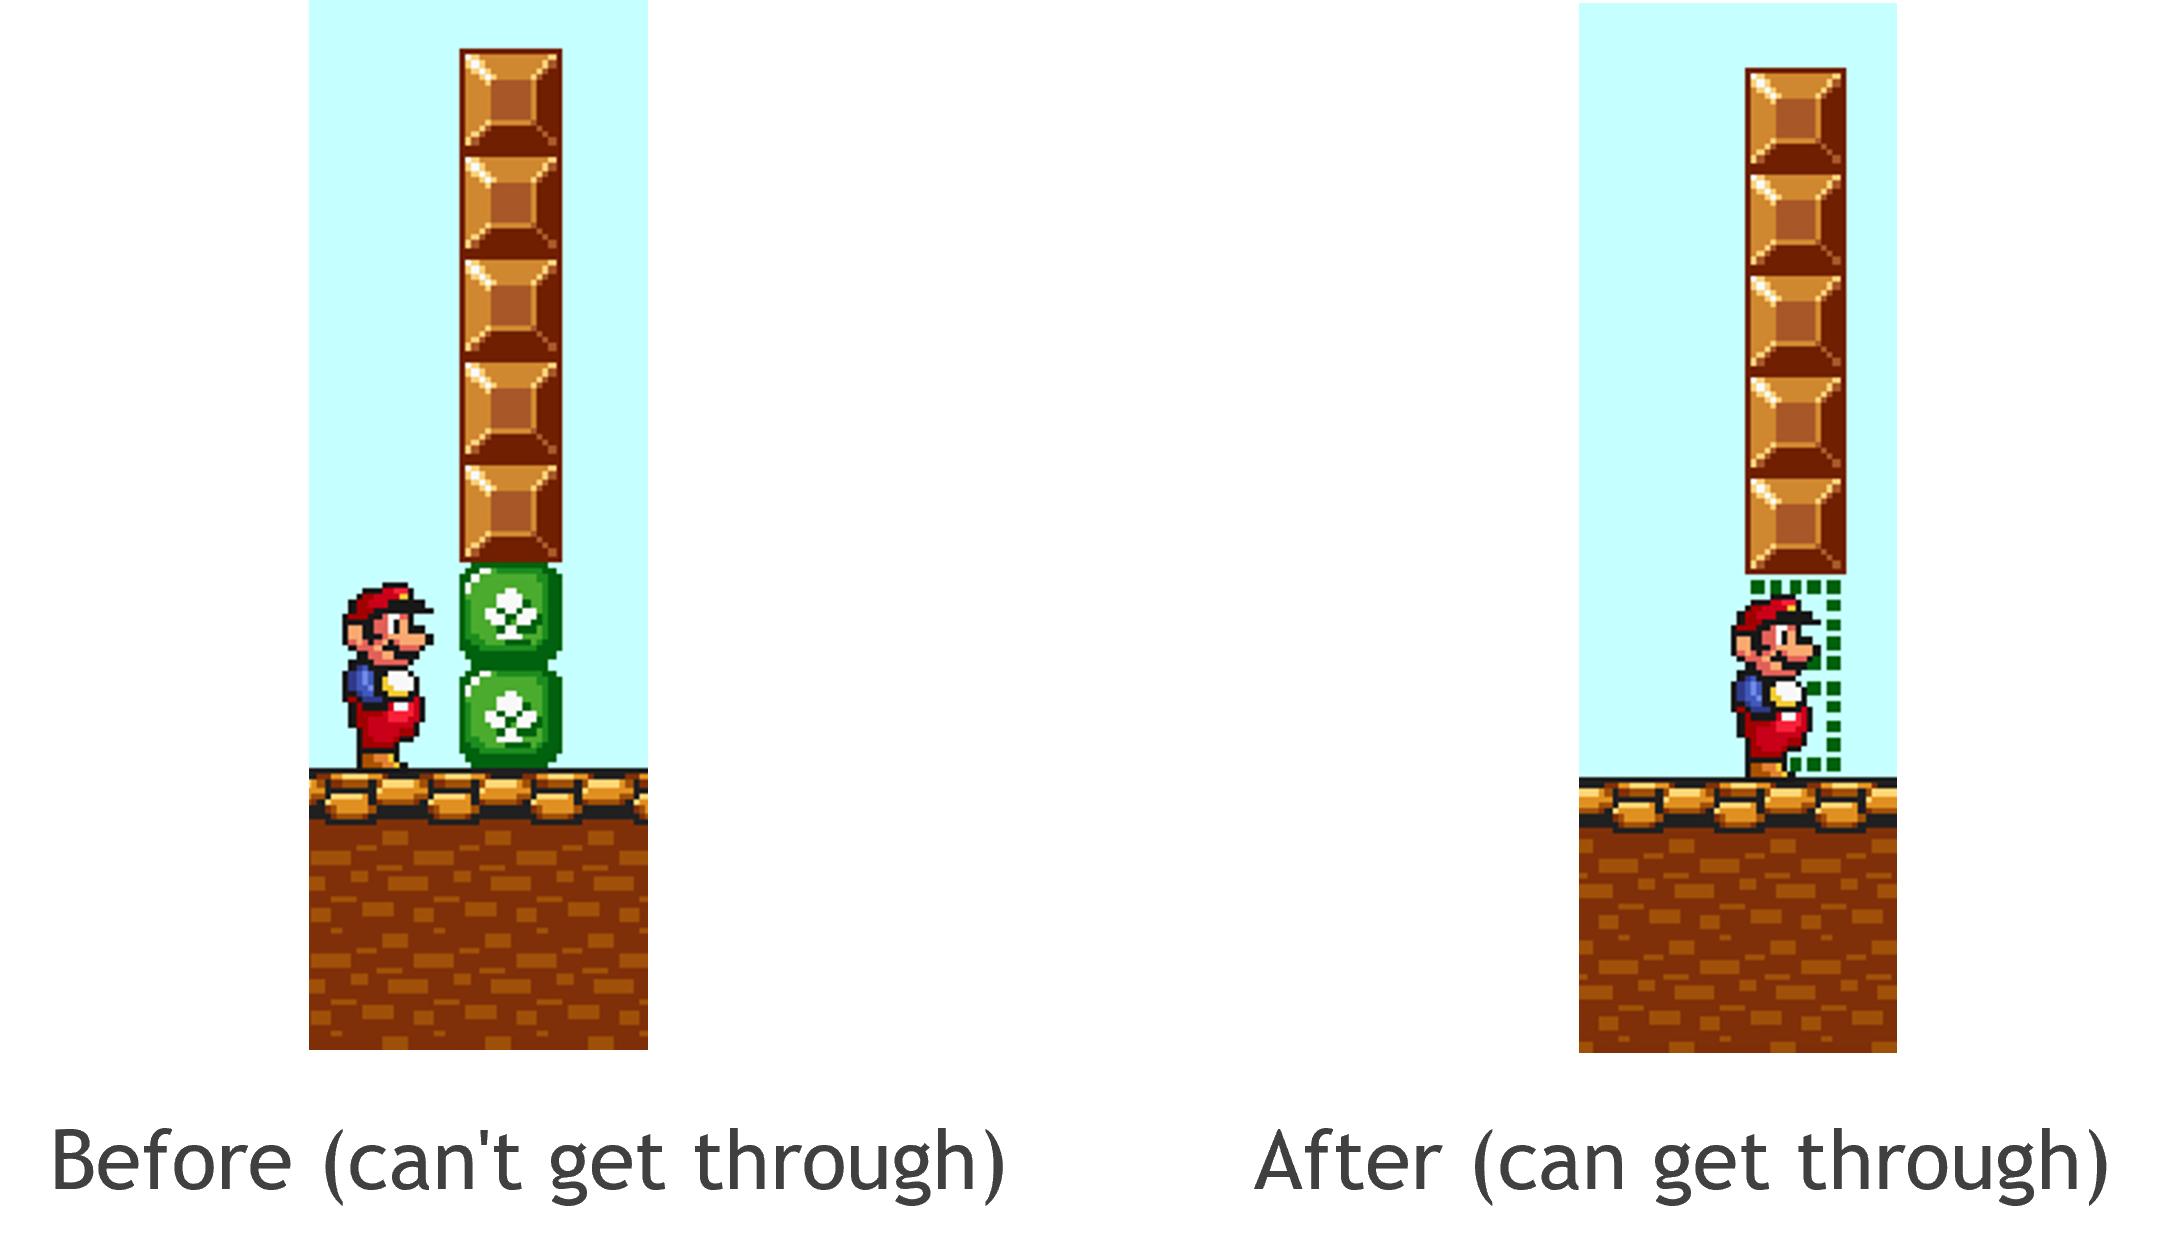
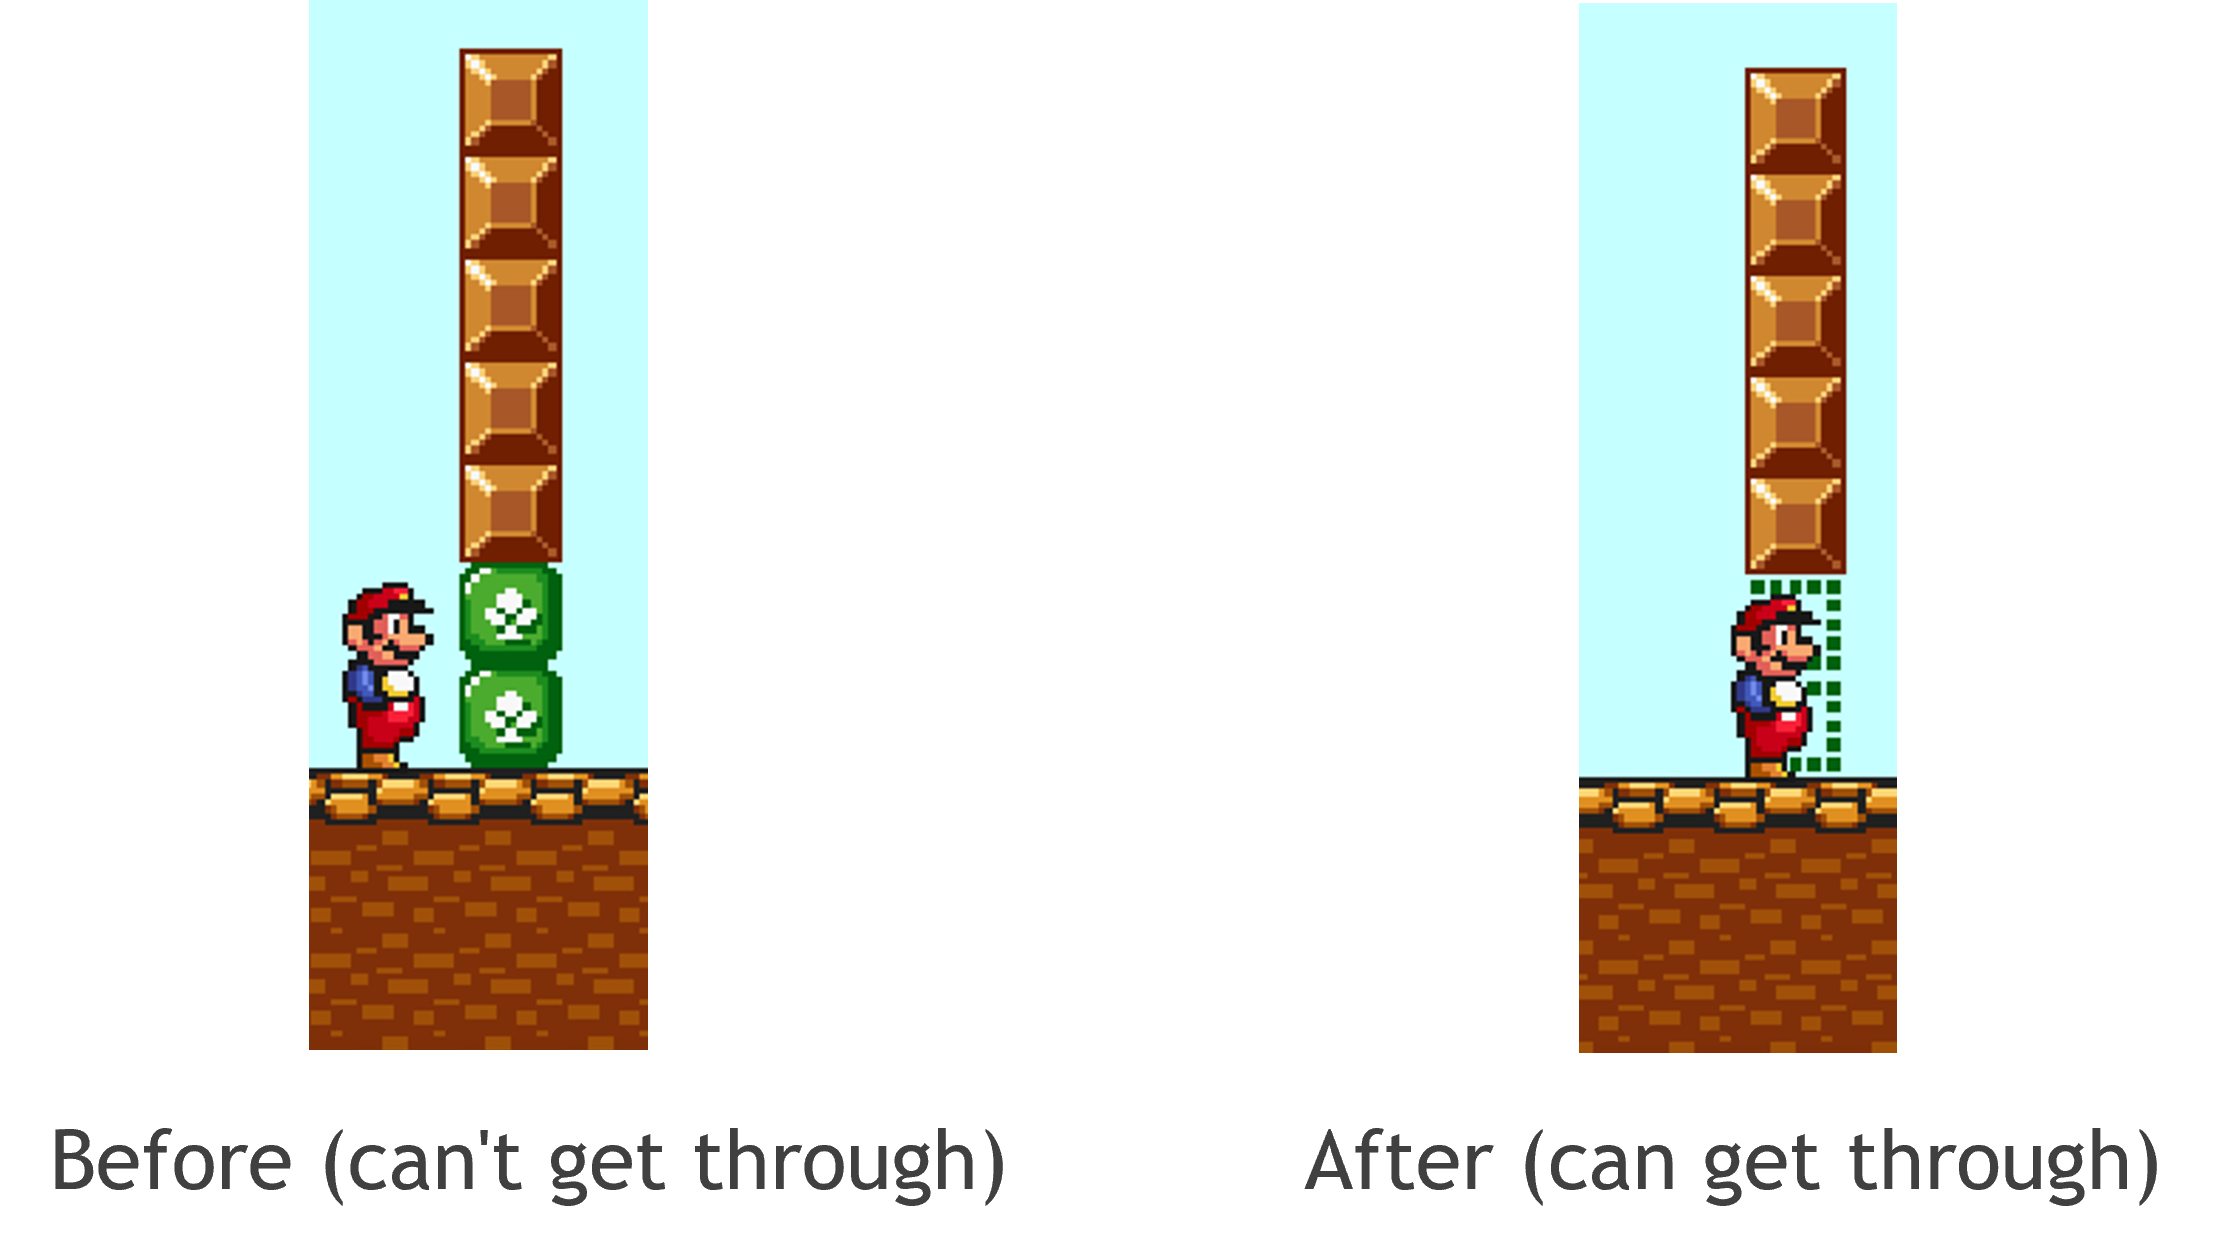
3sat

diff --git a/index.md b/index.md
@@ -6,7 +6,7 @@ toc: true
 toc_sticky: true
 ---
 
-# Super Mario Bros.
+# Super Mario Bros. Introduction
 
 Super Mario Bros. is a classic platform game developed by Nintendo in 1985. 
 The game follows **Mario**, an Italian plumber, on his quest to rescue 
@@ -23,24 +23,22 @@ ultimately proving that determining whether a given level is passable is an
 <img src="assets/images/mario/mario-meme.png" alt="Mario Meme" class="centered-img" style="max-width: 40%; height: auto;">
 
 
-## Key Elements of the Game
+# Key Elements of the Game
 
 First, we will introduce several key elements of the game that we will use
 in our proofs. 
 
-### Mario's Forms
+## Mario's Forms
 
 Mario has different forms that impact his abilities:
 
 - **Normal Mario**: The default form with basic movement and jumping.
-- **Super Mario**: Gained by collecting a **Super Mushroom**, allowing Mario to break bricks.
-- **Invincible Mario**: Temporarily obtained by collecting a **Super Star**, making Mario immune to enemies and hazards.
+- **Super Mario**: Gained by collecting a **Super Mushroom** <img src="assets/images/mario/mushroom.png" alt="Super Mushroom" width="20">, allowing Mario to break bricks.
+- **Invincible Mario**: Temporarily obtained by collecting a **Super Star** <img src="assets/images/mario/star.png" alt="Super Star" width="20">, making Mario immune to enemies and hazards.
 
-<p align="center">
-    <img src="assets/images/mario/mario-forms.png" alt="Mario Forms" class="centered-img" style="max-width: 100%; height: auto;">
-</p>
+<img src="assets/images/mario/mario-forms.png" alt="Mario Forms" class="centered-img" style="max-width: 100%; height: auto;">
 
-### Basic Environment Elements
+## Basic Environment Elements
 
 Several types of blocks and structures shape the levels in *Super Mario Bros.*:
 
@@ -51,4 +49,27 @@ Several types of blocks and structures shape the levels in *Super Mario Bros.*:
 
 To simplify our problem, we also allow the use of **palace switches** <img src="assets/images/mario/palace-switch.png" alt="Normal Block" width="20">: 
 
-<img src="assets/images/mario/palace-switch-mechanics.png" alt="Palace switch mechanics" class="centered-img" style="max-width: 40%; height: auto;">
+- When Mario activates a **Palace Switch**, it transforms solid blocks of a matching color into transparent blocks.
+- This allows Mario to access previously blocked paths and continue progressing through the level.
+
+<img src="assets/images/mario/palace-switch-mechanics.png" alt="Palace switch mechanics" class="centered-img" style="max-width: 60%; height: auto;">
+
+# Problem Formulation
+
+## The $\textsc{3SAT}$ Problem
+
+Before we define the Super Mario problem, let's introduce (or review) the 3-satisfiability ($\textsc{3SAT}$) problem. 
+
+- A **Boolean formula** is a mathematical expression consisting of Boolean variables (taking values `true` or `false`), 
+logical operators (AND ($\wedge$), OR ($\vee$), NOT ($\neg$)) and parentheses for grouping. It evaluates to either `true` or `false` based on variable assignment.
+- A Boolean formula is **satisfiable** is there exists an assignment to the variables such that the formula evaluates to be true. 
+- A **literal** is a Boolean variable or a negated Boolean variable, as in $x$ or $\neg x$.
+- A **clause** is a *disjunction* ($\vee$) of several literals.
+- A Boolean formula is in **conjunctive normal form** (CNF) is it is a *conjunction* ($\wedge$) of several clauses.
+- A **3 CNF formula** is a CNF formula that has exactly *three* literals per clause. For example, 
+$$\phi = (x_1 \vee x_3 \vee \neg x_4) \wedge (\neg x_2 \vee x_3 \vee \neg x_5)$$
+is a satisfiable 3CNF formula. One true assignment is $x_1 = $ `true` and $x_2 = x_3 = x_4 = x_5 =$ `false`.
+
+The $\textsc{3SAT}$ problem is defined to be the set of satisfiable 3CNF formula:
+$$\textsc{3SAT} = \{\phi: \text{$\phi$ is a satisfiable 3CNF formula}\}$$
+
